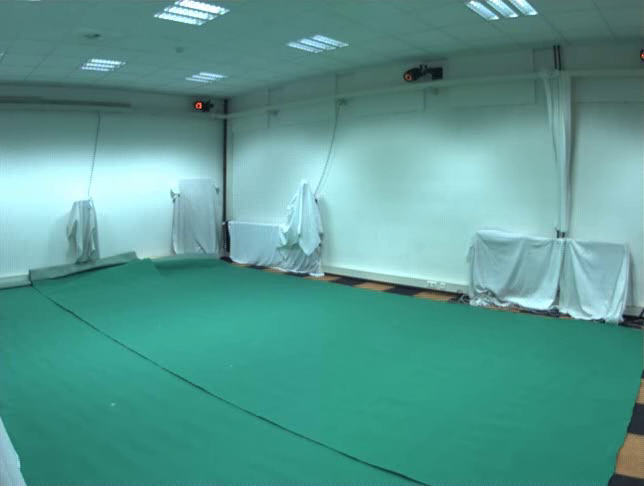
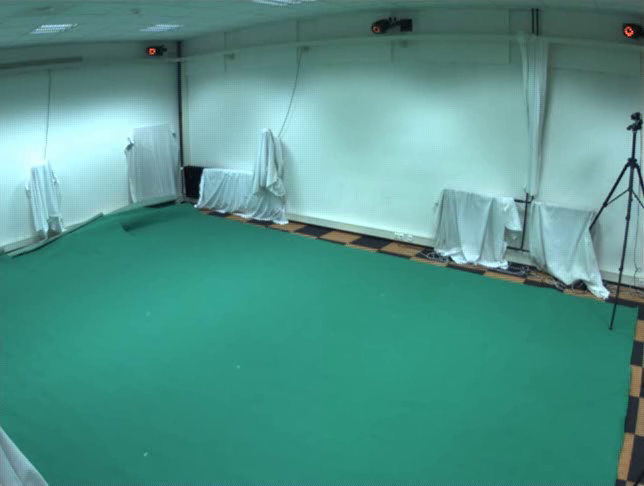
correct cluster centers

diff --git a/VoxelReconstruction/src/controllers/Scene3DRenderer.cpp b/VoxelReconstruction/src/controllers/Scene3DRenderer.cpp
@@ -8,13 +8,16 @@
 #include "Scene3DRenderer.h"
 
 #include <opencv2/core/mat.hpp>
+#include <opencv2/core/core.hpp>
 #include <opencv2/highgui/highgui.hpp>
+#include <opencv2/calib3d/calib3d.hpp>
 #include <opencv2/imgproc/imgproc.hpp>
 #include <opencv2/imgproc/types_c.h>
 #include <stddef.h>
 #include <string>
 #include <iostream>
 #include <sstream>
+#include <inttypes.h>
 
 
 #include "../utilities/General.h"
@@ -134,14 +137,17 @@ namespace nl_uu_science_gmt
 				Mat center, bestlabels;
 
 				//get points of voxels (x,y)
+				//TODO: ignore height of the voxels, so we dont need all visvoxels. only add the ones from the upper body. 
 				for (int r = 0; r < sizeOfVisVoxels; r++)
 				{
-					positions.at<float>(r, 0) = visVoxels[r]->x;
-					positions.at<float>(r, 1) = visVoxels[r]->y;
+					positions.at<float>(r, 0) = visVoxels[r]->y;
+					positions.at<float>(r, 1) = visVoxels[r]->x;
 				}
-				//cluster
+				//cluster. using KMEANS_PP_CENTERS gives uniformly distributed initial centers. this makes the chance of a local minimum very slim. 
 				kmeans(positions, clusterCount, bestlabels, TermCriteria(TermCriteria::EPS + TermCriteria::COUNT, 10, 0.5), 3, KMEANS_PP_CENTERS, center);
 
+				//bestlabels corresponds to positions. so the first item in bestlabel is also first item in position. 
+				//
 
 				//project voxel points into image, not needed
 				vector<Point2d> points;
@@ -150,52 +156,24 @@ namespace nl_uu_science_gmt
 					points.push_back(Point(positions.at<float>(i, 0), positions.at<float>(i, 1)));
 				}
 				//project cluster center into image,
-				vector<Point2d> centerPoints;
+				vector<Point3d> centerPoints;
 				for (int i = 0; i < center.rows; i++)
 				{
-					centerPoints.push_back(Point(center.at<float>(i, 1), center.at<float>(i, 0)));
+					centerPoints.push_back(Point3d(center.at<float>(i, 1), center.at<float>(i, 0), 0));
 				}
-				cout << centerPoints << endl;
-				//----------correct image---------
-				//since origin is in the middle on voxel space move the centers to project on image
-				for (int i = 0; i < center.rows; i++)
-				{
-					centerPoints[i].y = (int)abs(centerPoints[i].y / 2);
-					centerPoints[i].x = (int)abs(centerPoints[i].x / 2);
-				}
-				//distance from origin different for voxels and video so adjust points
-				vector<Point2d> centerPointsB;
-				centerPointsB.push_back(Point(centerPoints[3].x , centerPoints[3].y));
-				centerPointsB.push_back(Point(centerPoints[2].x -150, centerPoints[2].y ));
-				centerPointsB.push_back(Point(centerPoints[1].x , centerPoints[1].y));
-				centerPointsB.push_back(Point(centerPoints[0].x -150, centerPoints[0].y-80));
+				vector<Point2d> projectedCenters;
 
-				cout << "corrected centerpoints; " << centerPoints << endl;
-
-				//Image show test
-				Mat testImage;
-				m_cameras[1]->getFrame().copyTo(testImage);
+				projectPoints(centerPoints, m_cameras[1]->getRvec(), m_cameras[1]->getTvec(), m_cameras[1]->getCamMatrix(), m_cameras[1]->getDistCoeff(), projectedCenters);
 				
-				//draw a pixel at the center points.. not really visible
-				for (int i = 0; i < centerPoints.size(); i++)
-				{
-					Vec3b pixel = testImage.at<Vec3b>(centerPoints[i].y, centerPoints[i].x);
-
-					pixel = (0, 255, 255);
-
-					testImage.at<Vec3b>(centerPoints[i].y, centerPoints[i].x) = pixel;
-
-				}
-				imshow("test", testImage);
 				//invert image, dont know must be a camera thing
-				Mat flipped;
-				flip(testImage, flipped, 1);
+				Mat test;
+				m_cameras[1]->getFrame().copyTo(test);
 				//draw circles at the center points
-				circle(flipped, centerPointsB[0], 50, Scalar(255, 255, 255), CV_FILLED, 8, 0);
-				circle(flipped, centerPointsB[1], 50, Scalar(255, 255, 255), CV_FILLED, 8, 0);
-				circle(flipped, centerPointsB[2], 50, Scalar(255, 255, 255), CV_FILLED, 8, 0);
-				circle(flipped, centerPointsB[3], 50, Scalar(255, 255, 255), CV_FILLED, 8, 0);
-				imshow("test2", flipped);
+				circle(test, projectedCenters[0], 10, Scalar(255, 255, 255), CV_FILLED, 8, 0);
+				circle(test, projectedCenters[1], 10, Scalar(255, 255, 255), CV_FILLED, 8, 0);
+				circle(test, projectedCenters[2], 10, Scalar(255, 255, 255), CV_FILLED, 8, 0);
+				circle(test, projectedCenters[3], 10, Scalar(255, 255, 255), CV_FILLED, 8, 0);
+				imshow("test2", test);
 				//we can basically use the points around center to create a colour model.
 				
 

diff --git a/VoxelReconstruction/src/controllers/Camera.h b/VoxelReconstruction/src/controllers/Camera.h
@@ -161,6 +161,23 @@ public:
 	{
 		return m_camera_plane;
 	}
+
+	const cv::Mat getRvec()
+	{
+		return m_rotation_values;
+	}
+	const cv::Mat getTvec()
+	{
+		return m_translation_values;
+	}
+	const cv::Mat getCamMatrix()
+	{
+		return m_camera_matrix;
+	}
+	const cv::Mat getDistCoeff()
+	{
+		return m_distortion_coeffs;
+	}
 };
 
 } /* namespace nl_uu_science_gmt */

diff --git a/VoxelReconstruction/src/controllers/Reconstructor.cpp b/VoxelReconstruction/src/controllers/Reconstructor.cpp
@@ -122,6 +122,7 @@ void Reconstructor::initialize()
 				voxel->x = x;
 				voxel->y = y;
 				voxel->z = z;
+
 				voxel->camera_projection = vector<Point>(m_cameras.size());
 				voxel->valid_camera_projection = vector<int>(m_cameras.size(), 0);
 
